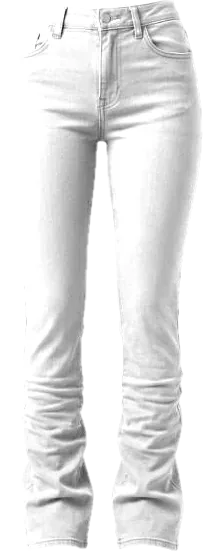
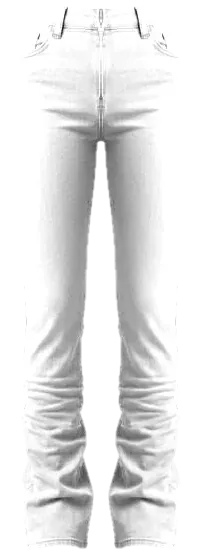
Several accessories per outfit, kept cohesive; shoes centered under the hem
- the accessory step is multi-select: hat, scarf, jewelry, bag, belt, watch, each its own
  slot on the outfit with its own swap and hide
- one metal per outfit (watch and chain), one leather (belt and leather bags, matched to
  the shoes), a hat and scarf as a matching set, a tote in a neutral that stands apart;
  the three outfits each take a different bag, hat and scarf color
- new worn scarf, looped at the neck, generated on green
- shoes centered on their opening under each leg; wide trousers and stacked jeans mirrored
- the quarter-zip look always leads the results

diff --git a/index.html b/index.html
@@ -399,7 +399,11 @@ const PREFS = {
 
 const TIERS = { value: "Value", mid: "Mid-range", premium: "Premium" };
 const TIER_MULT = { value: 0.55, mid: 1, premium: 2.4 };
-const SLOTS = { top: "Top", bottom: "Bottom", shoes: "Shoes", layer: "Outer layer", accessory: "Accessory" };
+const SLOTS = { top: "Top", bottom: "Bottom", shoes: "Shoes", layer: "Outer layer", belt: "Belt", watch: "Watch", jewelry: "Jewelry", bag: "Bag", scarf: "Scarf", hat: "Hat" };
+/* Accessories, each its own slot, so an outfit can carry several. Picked in this order,
+   so each one can match what's already chosen: belt to the shoes, chain to the watch, and
+   the hat to the scarf. */
+const ACC_SLOTS = ["belt", "watch", "jewelry", "bag", "scarf", "hat"];
 
 const ALL = Object.keys(COLORS);
 const SHOE_COLORS = ["black", "white", "grey", "beige", "camel", "rust", "navy", "sage", "red"];
@@ -479,8 +483,8 @@ const STYLES = [
   { id: "power-blazer", slot: "layer", name: "strong-shoulder blazer", fit: "regular", sil: EVEN, occ: ["work", "night"], dept: BOTH, base: 140, colors: LAYER_COLORS, material: "wool blend", tags: ["durable"] },
   { id: "trench",     slot: "layer", name: "slouchy trench coat", fit: "regular", sil: EVEN, occ: ["work", "casual", "weekend"], dept: BOTH, base: 150, colors: ["beige", "camel", "black", "olive", "navy"], material: "cotton gabardine", tags: ["durable"] },
   { id: "crop-puffer", slot: "layer", name: "cropped puffer jacket", fit: "regular", sil: EVEN, occ: ["casual", "weekend"], dept: BOTH, base: 110, colors: LAYER_COLORS, material: "recycled down", tags: ["sustainable"] },
-  { id: "tote",       slot: "accessory", name: "slouchy tote bag", fit: "regular", sil: EVEN, occ: ["casual", "work", "weekend"], dept: BOTH, base: 55, colors: LAYER_COLORS, material: "organic cotton canvas", tags: ["sustainable"] },
-  { id: "beanie",     slot: "accessory", name: "ribbed beanie", fit: "regular", sil: EVEN, occ: ["casual", "weekend"], dept: BOTH, base: 25, colors: LAYER_COLORS, material: "recycled wool", tags: ["sustainable"] },
+  { id: "tote",       slot: "bag", name: "slouchy tote bag", fit: "regular", sil: EVEN, occ: ["casual", "work", "weekend"], dept: BOTH, base: 55, colors: LAYER_COLORS, material: "organic cotton canvas", tags: ["sustainable"] },
+  { id: "beanie",     slot: "hat", name: "ribbed beanie", fit: "regular", sil: EVEN, occ: ["casual", "weekend"], dept: BOTH, base: 25, colors: LAYER_COLORS, material: "recycled wool", tags: ["sustainable"] },
   { id: "shell",      slot: "layer", name: "technical shell jacket", fit: "regular", sil: EVEN, occ: ["casual", "work", "night", "athleisure", "gym", "weekend"], dept: BOTH, base: 140, colors: ALL, material: "recycled waterproof nylon", tags: ["trend", "durable"] },
   { id: "fleece-jacket", slot: "layer", name: "high-pile fleece jacket", fit: "relaxed", sil: EVEN, occ: ["casual", "work", "night", "athleisure", "gym", "weekend"], dept: BOTH, base: 90, colors: ALL, material: "recycled polyester fleece", tags: ["trend", "sustainable"] },
   { id: "moto",       slot: "layer", name: "faux-leather moto jacket", fit: "slim", sil: EVEN, occ: ["casual", "work", "night", "athleisure", "gym", "weekend"], dept: BOTH, base: 85, colors: ALL, material: "vegan leather", tags: ["trend"] },
@@ -489,13 +493,13 @@ const STYLES = [
   { id: "overcoat",   slot: "layer", name: "raglan overcoat", fit: "relaxed", sil: EVEN, occ: ["casual", "work", "night", "athleisure", "gym", "weekend"], dept: BOTH, base: 210, colors: ALL, material: "wool-cashmere blend", tags: ["trend", "durable"] },
   { id: "extra-wide-jean", slot: "bottom", name: "extra-wide jeans", fit: "relaxed", sil: SMALL_TOP, occ: ["casual", "work", "night", "athleisure", "gym", "weekend"], dept: BOTH, base: 80, colors: ALL, material: "rigid cotton denim", tags: ["trend"] },
   { id: "stacked-jean", slot: "bottom", name: "stacked flare jeans", fit: "slim", sil: BIG_TOP, occ: ["casual", "work", "night", "athleisure", "gym", "weekend"], dept: BOTH, base: 60, colors: ALL, material: "stretch denim", tags: ["trend"] },
-  { id: "hobo",       slot: "accessory", name: "leather hobo bag", fit: "regular", sil: EVEN, occ: ["casual", "work", "night", "athleisure", "gym", "weekend"], dept: BOTH, base: 90, colors: ALL, material: "soft pebbled leather", tags: ["trend"] },
-  { id: "chain",      slot: "accessory", name: "chain necklace", fit: "regular", sil: EVEN, occ: ["casual", "work", "night", "athleisure", "gym", "weekend"], dept: BOTH, base: 45, colors: ["gold", "silver"], material: "recycled sterling silver or gold vermeil", tags: ["durable"] },
-  { id: "belt",       slot: "accessory", name: "leather belt", fit: "regular", sil: EVEN, occ: ["casual", "work", "night", "athleisure", "gym", "weekend"], dept: BOTH, base: 50, colors: ["brown", "black", "white"], material: "full-grain leather", tags: ["durable"] },
-  { id: "watch",      slot: "accessory", name: "minimal watch", fit: "regular", sil: EVEN, occ: ["casual", "work", "night", "athleisure", "gym", "weekend"], dept: BOTH, base: 120, colors: ["gold", "silver"], material: "stainless steel", tags: ["durable"] },
-  { id: "top-handle", slot: "accessory", name: "structured top-handle bag", fit: "regular", sil: EVEN, occ: ["casual", "night", "weekend", "work"], dept: BOTH, base: 140, colors: LAYER_COLORS, material: "smooth leather", tags: ["durable", "trend"] },
-  { id: "scarf",      slot: "accessory", name: "wool scarf", fit: "regular", sil: EVEN, occ: ["work", "weekend", "casual"], dept: BOTH, base: 40, colors: LAYER_COLORS, material: "recycled wool", tags: ["sustainable", "durable"] },
-  { id: "cap",        slot: "accessory", name: "six-panel cap", fit: "regular", sil: EVEN, occ: ["gym", "athleisure", "casual", "weekend"], dept: BOTH, base: 28, colors: LAYER_COLORS, material: "organic cotton twill", tags: ["sustainable"] }
+  { id: "hobo",       slot: "bag", name: "leather hobo bag", fit: "regular", sil: EVEN, occ: ["casual", "work", "night", "athleisure", "gym", "weekend"], dept: BOTH, base: 90, colors: ALL, material: "soft pebbled leather", tags: ["trend"] },
+  { id: "chain",      slot: "jewelry", name: "chain necklace", fit: "regular", sil: EVEN, occ: ["casual", "work", "night", "athleisure", "gym", "weekend"], dept: BOTH, base: 45, colors: ["gold", "silver"], material: "recycled sterling silver or gold vermeil", tags: ["durable"] },
+  { id: "belt",       slot: "belt", name: "leather belt", fit: "regular", sil: EVEN, occ: ["casual", "work", "night", "athleisure", "gym", "weekend"], dept: BOTH, base: 50, colors: ["brown", "black", "white"], material: "full-grain leather", tags: ["durable"] },
+  { id: "watch",      slot: "watch", name: "minimal watch", fit: "regular", sil: EVEN, occ: ["casual", "work", "night", "athleisure", "gym", "weekend"], dept: BOTH, base: 120, colors: ["gold", "silver"], material: "stainless steel", tags: ["durable"] },
+  { id: "top-handle", slot: "bag", name: "structured top-handle bag", fit: "regular", sil: EVEN, occ: ["casual", "night", "weekend", "work"], dept: BOTH, base: 140, colors: LAYER_COLORS, material: "smooth leather", tags: ["durable", "trend"] },
+  { id: "scarf",      slot: "scarf", name: "wool scarf", fit: "regular", sil: EVEN, occ: ["work", "weekend", "casual"], dept: BOTH, base: 40, colors: LAYER_COLORS, material: "recycled wool", tags: ["sustainable", "durable"] },
+  { id: "cap",        slot: "hat", name: "six-panel cap", fit: "regular", sil: EVEN, occ: ["gym", "athleisure", "casual", "weekend"], dept: BOTH, base: 28, colors: LAYER_COLORS, material: "organic cotton twill", tags: ["sustainable"] }
 ];
 
 /* What's showing up now, as of November 2026. GEN AI PLUG-IN POINT: a real system
@@ -547,7 +551,7 @@ const PHOTO_COLORS = {
 };
 
 /* One record per style + color + price tier. */
-const CATALOG = STYLES.flatMap(style => [...new Set([...(["shoes", "layer"].includes(style.slot) || ["cap", "beanie", "top-handle", "tote", "hobo"].includes(style.id) ? ALL : style.colors), PHOTO_COLORS[style.id]])].filter(Boolean).flatMap(color => Object.keys(TIERS).map(tier => ({
+const CATALOG = STYLES.flatMap(style => [...new Set([...(["shoes", "layer"].includes(style.slot) || ["cap", "beanie", "top-handle", "tote", "hobo", "scarf"].includes(style.id) ? ALL : style.colors), PHOTO_COLORS[style.id]])].filter(Boolean).flatMap(color => Object.keys(TIERS).map(tier => ({
   ...style,
   key: `${style.id}|${color}|${tier}`,
   color,
@@ -569,7 +573,7 @@ const CATALOG = STYLES.flatMap(style => [...new Set([...(["shoes", "layer"].incl
 const BRANDS_KOREAN = { value: "Musinsa Standard, 8Seconds, Spao", mid: "Covernat, thisisneverthat, Mardi Mercredi", premium: "Andersson Bell, Ader Error, Wooyoungmi" };
 const BRANDS_GYM = { value: "Old Navy, Decathlon, Uniqlo", mid: "Gymshark, Nike, Under Armour", premium: "Lululemon, Alo Yoga, Rhone" };
 const BRANDS_LEATHER = { value: "Clarks, Florsheim, Steve Madden", mid: "Dr. Martens, Cole Haan, Blundstone", premium: "Grenson, R.M. Williams, Allen Edmonds" };
-const brandsFor = item => ["loafer", "chelsea", "tall-boot"].includes(item.id) ? BRANDS_LEATHER : item.korean ? BRANDS_KOREAN : item.occ[0] === "gym" && item.slot !== "shoes" ? BRANDS_GYM : BRANDS[item.slot];
+const brandsFor = item => ["loafer", "chelsea", "tall-boot"].includes(item.id) ? BRANDS_LEATHER : item.korean ? BRANDS_KOREAN : item.occ[0] === "gym" && item.slot !== "shoes" ? BRANDS_GYM : BRANDS[ACC_SLOTS.includes(item.slot) ? "accessory" : item.slot];
 
 const BY_KEY = new Map(CATALOG.map(item => [item.key, item]));
 
@@ -590,7 +594,7 @@ const defaultAnswers = () => ({
   dept: "unisex", occasions: [], palettes: [], avoid: [],
   body: "unsure", fit: "regular", silhouette: "balanced",
   budget: [100, 800], sustainable: false, durable: false, trend: true, kstyle: false,
-  palette: "", pants: "", age: 1, style: "classic", accessory: "none",
+  palette: "", pants: "", age: 1, style: "classic", accessories: [],
   consent: true
 });
 const emptyFeedback = () => ({ colors: {}, styles: {}, sils: [], log: [] });
@@ -673,12 +677,12 @@ const STYLE_OPTIONS = {
   bohemian:   { label: "Bohemian",   desc: "Soft textures, wide legs and warm leather" }
 };
 const ACCESSORIES = {
-  none:    { label: "None",    ids: [] },
-  hat:     { label: "Hat",     ids: ["cap", "beanie"] },
-  jewelry: { label: "Jewelry", ids: ["chain"] },
-  bag:     { label: "Bag",     ids: ["top-handle", "tote", "hobo"] },
-  belt:    { label: "Belt",    ids: ["belt"] },
-  watch:   { label: "Watch",   ids: ["watch"] }
+  hat:     { label: "Hat" },
+  scarf:   { label: "Scarf" },
+  jewelry: { label: "Jewelry" },
+  bag:     { label: "Bag" },
+  belt:    { label: "Belt" },
+  watch:   { label: "Watch" }
 };
 /* Pants that come in every color, so a pairing is always possible. */
 const ANY_CUT = ["str-pant", "wide-pant", "cargo", "track-pant"];
@@ -813,28 +817,52 @@ function fitsFormula(item, ctx) {
     if (!ids.includes(item.id) || !topPick || !shoes) return false;
     return story.outer.includes(item.color) && outerFits(topPick.color, bottomPick && bottomPick.color, item.color);
   }
-  if (item.slot === "accessory") {
-    const pick = ACCESSORIES[ctx.accessory] || ACCESSORIES.none;
-    if (!pick.ids.includes(item.id)) return false;
-    // Hobo bags suit softer styles, structured top-handle bags the sharper ones.
-    if (["hobo", "top-handle", "tote"].includes(item.id)) {
-      const bag = { bohemian: "hobo", classic: "hobo", minimalist: "top-handle", streetwear: "top-handle", athleisure: "tote" }[ctx.style] || "top-handle";
-      return item.id === bag && !!shoes && item.color === shoes.color;
+  if (ACC_SLOTS.includes(item.slot)) {
+    if (!(ctx.accessories || []).includes(item.slot) || !shoes) return false;
+    const picked = slot => ctx.chosen && ctx.chosen.find(i => i.slot === slot);
+    // The three outfits each take a different one of the pieces that suit the style; a swap
+    // may offer any of them.
+    const nth = list => list[(ctx.index || 0) % list.length];
+    const oneOf = (list, value) => ctx.swapping ? list.includes(value) : value === nth(list);
+    // One metal for every metal piece: gold with warm colors and softer styles, silver otherwise.
+    const metal = ["bohemian", "classic"].includes(ctx.style) || ["wine", "camel", "brown", "emerald", "butter", "ivory"].includes(ctx.bread) ? "gold" : "silver";
+    // One leather for every leather piece: the shoes' when they're leather, else brown or black to suit them.
+    const leather = shoes.color === "black" ? "black" : shoes.color === "brown" ? "brown" : isLight(ctx.bread) ? "brown" : "black";
+    if (item.slot === "belt") return item.color === leather;
+    if (item.slot === "watch" || item.slot === "jewelry") return item.color === metal;
+    if (item.slot === "bag") {
+      const bags = { bohemian: ["hobo", "tote", "top-handle"], classic: ["top-handle", "hobo", "tote"], minimalist: ["top-handle", "tote", "hobo"],
+        streetwear: ["tote", "top-handle", "hobo"], athleisure: ["tote", "hobo", "top-handle"] }[ctx.style] || ["top-handle", "hobo", "tote"];
+      if (!oneOf(bags, item.id)) return false;
+      // A canvas tote stays a light or dark neutral; a leather bag matches the belt and shoes.
+      if (item.id === "tote") {
+        const coat = picked("layer");
+        const stands = c => c !== ctx.bread && !(coat && c === coat.color) && !(isLight(ctx.bread) && isLight(c)) && !(coat && isLight(coat.color) && isLight(c));
+        return item.color === (["ivory", "black", "camel", "brown", "navy", "olive"].find(stands) || "black");
+      }
+      return item.color === leather;
     }
-    if (item.id === "chain") return item.color === (ctx.style === "bohemian" ? "gold" : "silver");
-    if (item.id === "watch") return item.color === (ctx.style === "bohemian" || ctx.style === "classic" ? "gold" : "silver");
-    if (item.id === "cap") return ["athleisure", "streetwear"].includes(ctx.style) && !!shoes && item.color === shoes.color;
-    if (item.id === "beanie") return !["athleisure", "streetwear"].includes(ctx.style) && !!shoes && item.color === shoes.color;
-    // A belt is leather: black with black shoes, brown otherwise.
-    if (item.id === "belt") return !!shoes && item.color === (shoes.color === "black" ? "black" : "brown");
-    return !!shoes && item.color === shoes.color;
+    if (item.slot === "scarf") {
+      // A coat color that isn't already worn and stands apart from the knit.
+      const used = [topPick, bottomPick, picked("layer")].filter(Boolean).map(i => i.color);
+      const fits = story.outer.filter(c => !used.includes(c) && lumGap(c, ctx.bread) >= .1);
+      return fits.length ? oneOf(fits, item.color) : item.color === story.outer[0];
+    }
+    if (item.slot === "hat") {
+      const hats = { athleisure: ["cap"], streetwear: ["cap", "beanie", "cap"] }[ctx.style] || ["beanie"];
+      if (!oneOf(hats, item.id)) return false;
+      // A hat and scarf worn together are a matching set; alone, the hat echoes the leather.
+      const scarf = picked("scarf");
+      return item.color === (scarf ? scarf.color : leather);
+    }
+    return false;
   }
   return false;
 }
 
 /* The same occasion preference applies to the fresh list. */
 pool.fresh = (slot, items, ctx) => {
-  if (slot === "layer" || slot === "accessory") return items;
+  if (slot === "layer" || ACC_SLOTS.includes(slot)) return items;
   const forOccasion = items.filter(item => item.occ.includes(ctx.occasion));
   return forOccasion.length ? forOccasion : items;
 };
@@ -851,7 +879,7 @@ function pool(slot, ctx) {
   // A new outfit leaves out pieces from the one it replaces, whenever another option fits.
   const fresh = ctx.avoid && ctx.avoid.size ? allowed.filter(item => !ctx.avoid.has(pieceKey(item))) : allowed;
   if (fresh.length && fresh.length < allowed.length) return pool.fresh(slot, fresh, ctx);
-  if (slot === "layer" || slot === "accessory") return allowed;
+  if (slot === "layer" || ACC_SLOTS.includes(slot)) return allowed;
   if (slot === "bottom" && !allowed.length && !ctx.anyCut) { ctx.anyCut = true; return pool(slot, ctx); }
   const forOccasion = allowed.filter(item => item.occ.includes(ctx.occasion));
   if (forOccasion.length) return forOccasion;
@@ -1005,7 +1033,8 @@ function buildOnce(index, keepSilhouette, lookIndex, avoid, bread) {
     look: lookIndex === undefined ? index % 3 : lookIndex,
     avoid,
     style: a.style,
-    accessory: a.accessory,
+    accessories: a.accessories,
+    index,
     gym: ctx_gym(a)
   };
 
@@ -1051,7 +1080,8 @@ function matchChecks(outfit) {
 function sortOutfits() {
   const rate = o => { const { met, count } = matchChecks(o); return met / count; };
   const compare = {
-    match: (x, y) => rate(y) - rate(x),
+    // The quarter-zip look always leads; the other two follow by how well they match.
+    match: (x, y) => (x.look !== 0) - (y.look !== 0) || rate(y) - rate(x),
     low: (x, y) => outfitTotal(x.items) - outfitTotal(y.items),
     high: (x, y) => outfitTotal(y.items) - outfitTotal(x.items)
   };
@@ -1067,7 +1097,7 @@ function swapItem(index, slot) {
   const room = a.budget[1] - rest.reduce((sum, i) => sum + i.price, 0);
   const ctx = {
     a, silhouette: outfit.silhouette, occasion: outfit.occasion, chosen: rest,
-    hero: null, tier: budgetTier(a), usedColors: new Set(), bread: outfit.bread || "navy", look: outfit.look, gym: false, style: a.style, accessory: a.accessory,
+    hero: null, tier: budgetTier(a), usedColors: new Set(), bread: outfit.bread || "navy", look: outfit.look, gym: false, style: a.style, accessories: a.accessories, index, swapping: true,
     usedStyles: new Set(current ? [current.id] : [])
   };
   const options = pool(slot, ctx).filter(i => !outfit.seen.has(`${i.id}|${i.color}`));
@@ -1079,8 +1109,11 @@ function swapItem(index, slot) {
     return false;
   }
   outfit.items[slot] = ranked[0][1];
+  // A hat worn with a scarf stays a matching set when the scarf changes.
+  const hat = outfit.items.hat;
+  if (slot === "scarf" && hat) outfit.items.hat = BY_KEY.get(`${hat.id}|${outfit.items.scarf.color}|${hat.tier}`) || hat;
   const coat = outfit.items.layer;
-  if (slot !== "layer" && coat) {
+  if (slot !== "layer" && !ACC_SLOTS.includes(slot) && coat) {
     const shade = coatColorFor(outfit.items.top, outfit.items.bottom, coat);
     outfit.items.layer = BY_KEY.get(`${coat.id}|${shade}|${coat.tier}`) || coat;
   }
@@ -1116,7 +1149,7 @@ function applyFeedback(index, reason) {
   }
   if (personalized()) feedback.log.push(message);
   const keep = reason === "fit" && answers.silhouette === "surprise" ? null : outfit.silhouette;
-  outfits[index] = buildOutfit(index, keep, { bread: outfit.bread });
+  outfits[index] = buildOutfit(index, keep, { bread: outfit.bread, look: outfit.look });
   openFeedback = null;
   return message;
 }
@@ -1144,8 +1177,9 @@ function proportionText(outfit) {
   const coatLine = !coat ? "" : coat.color === shoes.color
     ? ` The ${c(coat.color)} ${coat.name} matches your ${shoes.name} and sits ${luminance(coat.color) > luminance(top.color) ? "lighter" : "darker"} than the knit, so the layers read clearly.`
     : ` The ${c(coat.color)} ${coat.name} sits ${luminance(coat.color) > luminance(top.color) ? "lighter" : "darker"} than the ${c(top.color)} knit, so the layers read clearly.`;
-  const extra = outfit.items.accessory;
-  const extraLine = extra ? ` A ${c(extra.color)} ${extra.name} finishes it.` : "";
+  const extras = ACC_SLOTS.map(s => outfit.items[s]).filter(Boolean);
+  const extraLine = !extras.length ? "" : extras.length === 1 ? ` A ${c(extras[0].color)} ${extras[0].name} finishes it.`
+    : ` ${cap(names(extras.map(i => `${c(i.color)} ${i.name}`)))} finish it, with one metal and one leather throughout.`;
   const shape = ((STYLE_LOOKS[outfit.style] || [])[outfit.look] || {}).shape;
   const shapeLine = { solo: " With no jacket, the knit is the hero, so the shape stays simple: one top, one clean leg.",
     short: coat && !WAIST_JACKETS.includes(coat.id)
@@ -1470,8 +1504,8 @@ function torsoWidth(img) {
 const legMarks = new Map();
 function legRuns(img) {
   if (!legMarks.has(img)) {
-    // Measure a little above the hem, where the edge is solid rather than ragged.
-    const solid = alphaOf(img), y = img.height * .93;
+    // Measure just above the hem, where the shoe goes: a wide leg splays out lower down.
+    const solid = alphaOf(img), y = img.height * .97;
     const runs = [];
     for (let x = 0, start = -1; x <= img.width; x++) {
       const on = x < img.width && solid(x, y);
@@ -1510,6 +1544,23 @@ function shoeGap(img) {
 /* Each shoe's own columns: drop thin edges (floor shadow, a sliver of the other shoe)
    by keeping only columns that hold a solid share of the shoe's height. */
 const halfMarks = new Map();
+/* The middle of one shoe across its half of the photo, where the leg goes in: the rows
+   just below where the hem lands, so the hem sits centered over the shoe's opening. */
+const shoeMidMarks = new Map();
+function shoeMid(img, from, to) {
+  const key = img.src + from;
+  if (!shoeMidMarks.has(key)) {
+    const solid = alphaOf(img), mids = [];
+    for (let y = Math.round(img.height * .32); y < img.height * .5; y += 2) {
+      let a = -1, b = -1;
+      for (let x = from; x < to; x++) if (solid(x, y)) { if (a < 0) a = x; b = x; }
+      if (a >= 0) mids.push((a + b) / 2);
+    }
+    mids.sort((p, q) => p - q);
+    shoeMidMarks.set(key, (mids.length ? mids[mids.length >> 1] : (from + to) / 2) - from);
+  }
+  return shoeMidMarks.get(key);
+}
 function shoeHalves(img) {
   if (!halfMarks.has(img)) {
     const solid = alphaOf(img), gap = shoeGap(img);
@@ -1744,11 +1795,12 @@ async function paintDummy(canvas, outfit) {
   const form = FORMS[activeAnswers().dept];
   const { top, bottom, shoes, layer } = outfit.items;
   // Shoes go down first so the pants hem can sit on top of them.
-  const extra = outfit.items.accessory;
-  const realAcc = item => item.slot === "accessory" && REAL_ACCESSORIES[`${item.id}|${item.color}`];
+  // Accessories go on last: the chain under the scarf, the bag in the hand, the hat on top.
+  const extras = ["belt", "watch", "jewelry", "scarf", "bag", "hat"].map(s => outfit.items[s]);
+  const realAcc = item => ACC_SLOTS.includes(item.slot) && REAL_ACCESSORIES[`${item.id}|${item.color}`];
   // Belts and watches sit under the sweater or are too small to read, so they show in the list only.
-  const drawable = item => item.slot !== "accessory" || (WEAR[item.id] && !["belt", "watch"].includes(item.id)) || (item.id === "chain" && realAcc(item));
-  const order = [shoes, bottom, top, layer, extra].filter(Boolean).filter(drawable);
+  const drawable = item => !ACC_SLOTS.includes(item.slot) || (WEAR[item.id] && !["belt", "watch"].includes(item.id)) || (item.id === "chain" && realAcc(item));
+  const order = [shoes, bottom, top, layer, ...extras].filter(Boolean).filter(drawable);
   const real = item => (item.slot === "shoes" && REAL_SHOES[`${item.id}|${item.color}`]) || realAcc(item);
   const [dummy, ...garments] = await Promise.all([loadImage(form.src), ...order.map(i => realAcc(i) ? loadShoe("../accessories/" + realAcc(i)) : real(i) ? loadShoe(real(i)) : loadImage(WEAR[i.id][0]))]);
   const g = canvas.getContext("2d");
@@ -1969,6 +2021,8 @@ async function paintDummy(canvas, outfit) {
         const height = img.height * scale;
         const flip = side !== base;
         const y = m.footY - height + 6;
+        // The shoe isn't centered in its half of the photo: line its own middle up with the leg.
+        const mid = shoeMid(img, from, to) * scale;
         // One soft, even contact shadow under each shoe instead of the photo's floor shadow.
         g.save();
         g.filter = "blur(4px)";
@@ -1981,10 +2035,10 @@ async function paintDummy(canvas, outfit) {
           g.save();
           g.translate(legs[side].c, 0);
           g.scale(-1, 1);
-          g.drawImage(art, from, 0, halfW, img.height, -width / 2, y, width, height);
+          g.drawImage(art, from, 0, halfW, img.height, -mid, y, width, height);
           g.restore();
         } else {
-          g.drawImage(art, from, 0, halfW, img.height, legs[side].c - width / 2, y, width, height);
+          g.drawImage(art, from, 0, halfW, img.height, legs[side].c - mid, y, width, height);
         }
         shoeTop = Math.min(shoeTop, y + height * .3);
       });
@@ -2003,6 +2057,12 @@ async function paintDummy(canvas, outfit) {
         : item.slot === "top" || JACKET_IDS.includes(item.id) || item.id === "scarf" ? m.neckY - CANVAS_H * .02
         : CANVAS_H * topEdge;
       box = { x: MID - width / 2 + (offset || 0) * form.size, y, width, height };
+      if (item.id === "scarf") {
+        // Worn looped once: the scarf about as wide as the chest, its loop (centered 20% down
+        // the photo) around the base of the neck, and the ends hanging down the front.
+        const sw = m.chestW * .95, sh = img.height * sw / img.width;
+        box = { x: MID - sw / 2, y: m.neckY + CANVAS_H * .045 - sh * .196, width: sw, height: sh };
+      }
     }
     const art = real(item) ? img : tinted(img, COLORS[item.color].hex);
     if (item === top && coat) {
@@ -2077,7 +2137,7 @@ async function paintDummy(canvas, outfit) {
 
 /* Practical styling notes for each look, built from the pieces in it. */
 function stylingDetails(outfit) {
-  const { top, bottom, shoes, layer, accessory } = outfit.items;
+  const { top, bottom, shoes, layer } = outfit.items;
   const c = item => COLORS[item.color].label.toLowerCase();
   const notes = [];
   notes.push(top.id.startsWith("quarter-zip")
@@ -2100,13 +2160,14 @@ function stylingDetails(outfit) {
     : ["overcoat", "trench"].includes(layer.id)
       ? `Leave the ${c(layer)} ${layer.name} open so the knit makes a strip of color down the middle.`
       : `Wear the ${c(layer)} ${layer.name} open, collar up at the back, so the knit shows down the front.`);
-  if (accessory) {
+  ACC_SLOTS.map(slot => outfit.items[slot]).filter(Boolean).forEach(accessory => {
     const tip = { cap: "Wear the cap facing forward and slightly low.", beanie: "Fold the beanie cuff once and wear it back from the forehead.",
-      chain: "Wear the chain over the knit, just below the collar.", belt: "Half-tuck the front of the knit so the belt shows.",
-      watch: "Wear the watch on your non-writing wrist, just past the knit's cuff.", hobo: "Carry the hobo bag on the shoulder opposite your bag hand.",
-      "top-handle": "Carry the top-handle bag in the hand, arm relaxed at your side.", tote: "Carry the tote in the hand, or on the shoulder over the coat." }[accessory.id];
+      chain: "Wear the chain over the knit, just below the collar.", belt: "Half-tuck the front of the top so the belt shows.",
+      watch: "Wear the watch on your non-writing wrist, just past the cuff.", hobo: "Carry the hobo bag on the shoulder opposite your bag hand.",
+      "top-handle": "Carry the top-handle bag in the hand, arm relaxed at your side.", tote: "Carry the tote in the hand, or on the shoulder over the coat.",
+      scarf: "Loop the scarf once at the neck and let the ends hang straight." }[accessory.id];
     if (tip) notes.push(tip);
-  }
+  });
   return notes;
 }
 
@@ -2158,7 +2219,7 @@ function describeAnswers() {
     ["Age range", AGES[a.age]],
     ["Palette", a.palette ? QUIZ_PALETTES[a.palette].label : "Not picked yet"],
     ["Style", STYLE_OPTIONS[a.style].label],
-    ["Accessory", ACCESSORIES[a.accessory].label]
+    ["Accessories", a.accessories.length ? names(a.accessories.map(k => ACCESSORIES[k].label.toLowerCase())) : "None"]
   ];
 }
 
@@ -2177,7 +2238,7 @@ function renderIntro() {
       <li><b>2</b> Age range</li>
       <li><b>3</b> Color palette</li>
       <li><b>4</b> Style</li>
-      <li><b>5</b> Accessory</li>
+      <li><b>5</b> Accessories</li>
     </ol>
     <button class="btn primary" data-action="start">Start the quiz</button>
     <div class="intro-panel">${howWePersonalize()}</div>
@@ -2217,10 +2278,10 @@ const STEP_VIEWS = {
       </fieldset>`
   }),
   5: () => ({
-    title: "Add an accessory?",
-    hint: "It's matched to your shoes or your style.",
-    body: `<fieldset class="section"><legend class="sr">Accessory</legend>
-        <div class="opts three">${Object.entries(ACCESSORIES).map(([k, v]) => option("radio", "accessory", k, v.label, "", answers.accessory === k)).join("")}</div>
+    title: "Add accessories?",
+    hint: "Pick as many as you like, or none. Each outfit keeps one metal and one leather, so they all go together.",
+    body: `<fieldset class="section"><legend class="sr">Accessories</legend>
+        <div class="opts three">${Object.entries(ACCESSORIES).map(([k, v]) => option("checkbox", "accessories", k, v.label, "", answers.accessories.includes(k))).join("")}</div>
       </fieldset>`
   })
 };
@@ -2415,7 +2476,7 @@ function toggleIn(list, value, on) {
 app.addEventListener("change", event => {
   const input = event.target;
   if (input.type === "range") return;
-  if (["occasions", "palettes", "avoid"].includes(input.name)) toggleIn(answers[input.name], input.value, input.checked);
+  if (["occasions", "palettes", "avoid", "accessories"].includes(input.name)) toggleIn(answers[input.name], input.value, input.checked);
   else if (input.name === "pref") answers[input.value] = input.checked;
   else if (input.name === "consent") answers.consent = input.checked;
   else if (input.name === "palette") {
